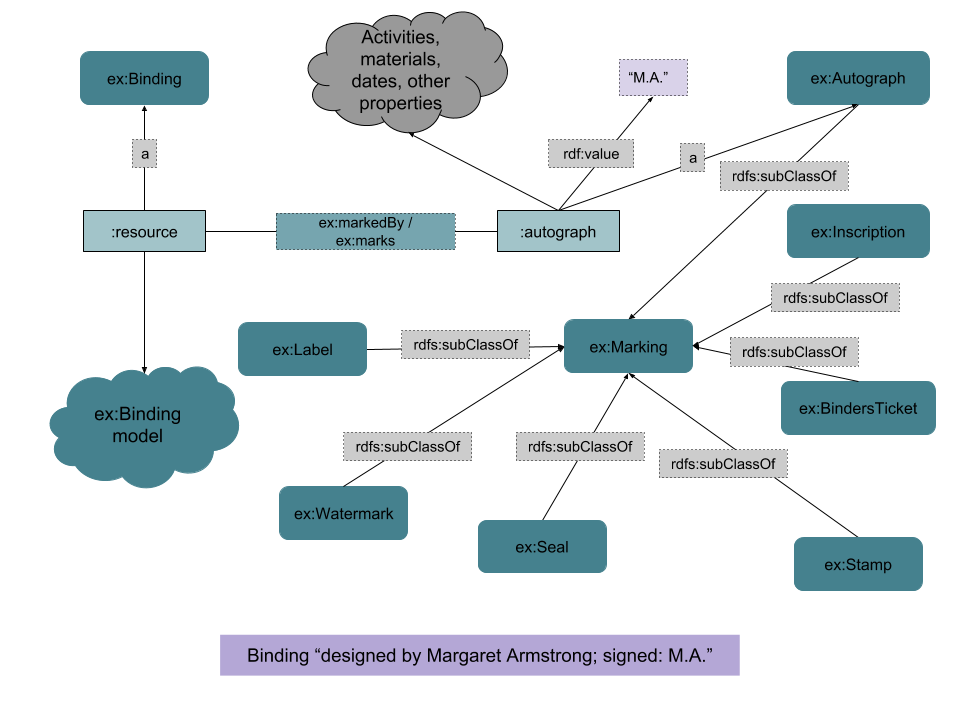
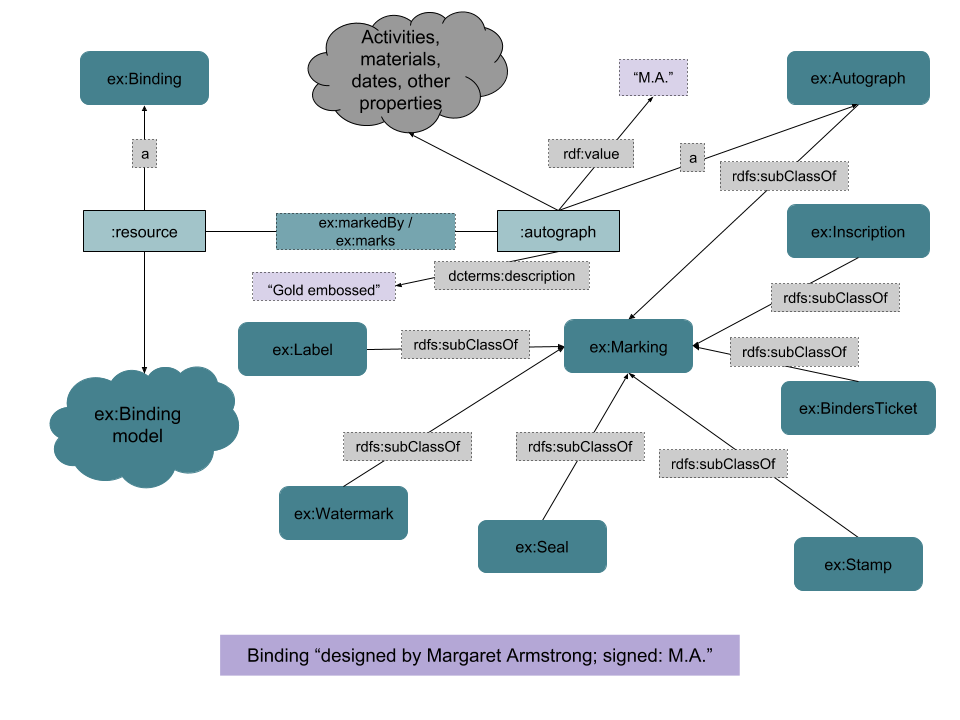
Updates to marking recommendation and diagram

Changed region(s): [[0.25, 0.3361, 0.625, 0.4278], [0.6562, 0.0917, 0.6875, 0.1222]]

diff --git a/modeling_recommendations/markings.md b/modeling_recommendations/markings.md
@@ -35,7 +35,11 @@ The Marking model is quite simple, involving a class hierarchy descending from a
 -------
 ![Markings diagram](/modeling_recommendations/modeling_diagrams/marking.png)
 
-Note that while the diagram and Sample RDF below show a marking attached to a binding, markings can apply to many types of resources.
+**Notes**
+
+- While the diagram and Sample RDF below show a marking attached to a binding, markings can apply to many types of resources.
+- Not all markings will have an rdf:value. E.g., autographs have a textual value but a seal may not. However, there is also the possibility of an rdf:value that points to a digital image of the marking. See [Areas for Future Research](#future).
+- Markings may optionally have a dcterms:description in addition to, or instead of, an rdf:value.
 
 
 <a name="terms">Term Specifications</a>
@@ -135,10 +139,11 @@ Properties
 -------------
 - Consider use of dcterms:isPartOf/dcterms:hasPart instead of marks/markedBy.
 - Marginalia and similar markings
-> - Define a class hierarchy
-> - Markings vs marginalia; see [Appendix](#appendix) for some preliminary remarks.
+- Define a class hierarchy
+- Markings vs marginalia; see [Appendix](#appendix) for some preliminary remarks.
 - Use of controlled vocabularies rather than subclassing for Marking types. We could define the superclass Marking, and leave all typing to marking taxonomies such as AAT. Explore pros and cons of each approach. If the marking taxonomy is deep and complex, it is more practical to use it rather than defining a parallel set of subclasses.
-
+This is an issue that applies across a number of modeling areas.
+- Representation of digital images of a marking. Possible predicates include rdf:value, foaf:depiction, perhaps others. 
 
 <a name="appendix">Appendix. Markings and Marginalia</a>
 --------------
